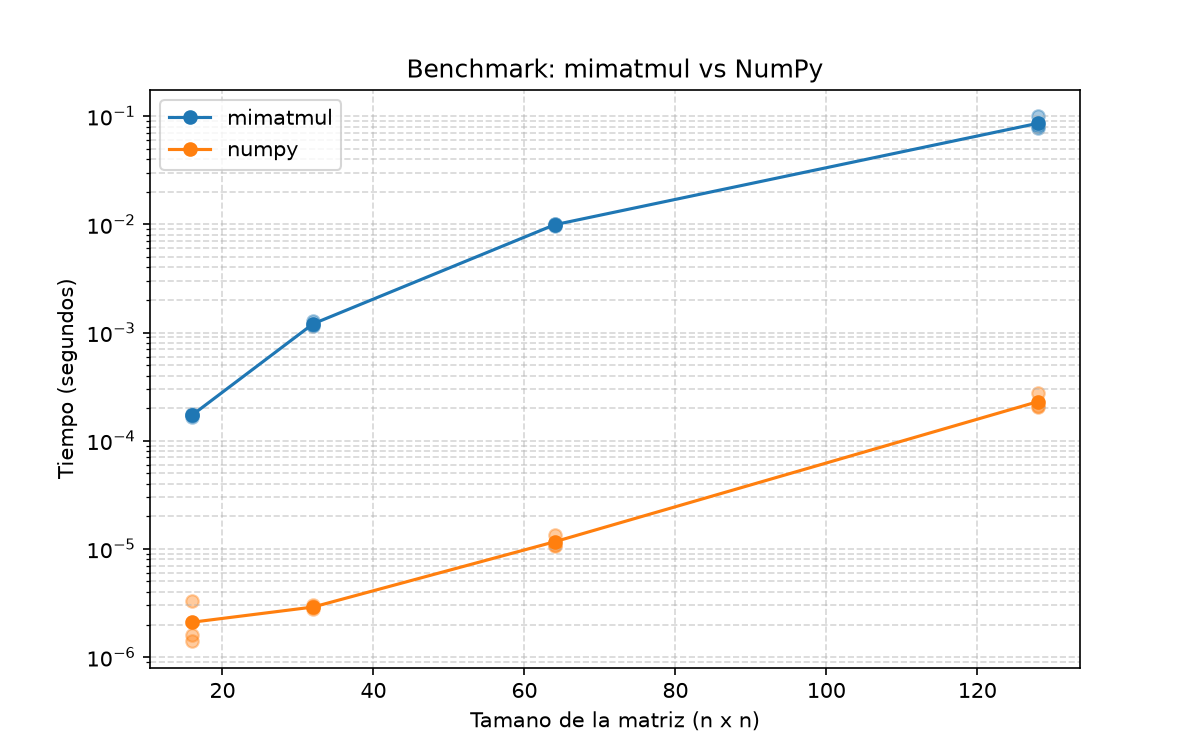
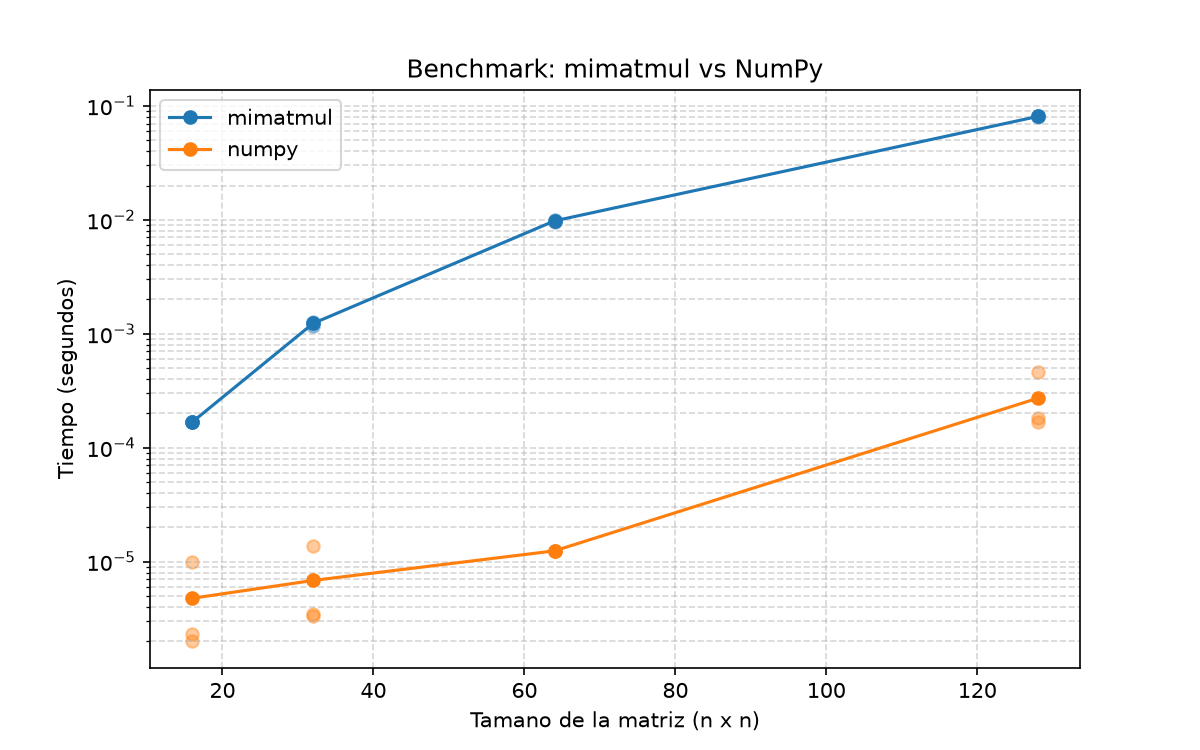
Refuerza validaciones y actualiza resultados finales

Changed region(s): [[0.0617, 0.1227, 0.8942, 0.8893], [0.0617, 0.1227, 0.1233, 0.184]]

diff --git a/src/benchmark.py b/src/benchmark.py
@@ -64,13 +64,13 @@ def graficar(resultados):
 
     plt.figure(figsize=(8, 5))
     for nombre, _ in METODOS:
-        tamaños = []
+        tamanos = []
         tiempos_medios = []
         for n in TAMANOS:
             valores = medias[(nombre, n)]
-            tamaños.append(n)
+            tamanos.append(n)
             tiempos_medios.append(sum(valores) / len(valores))
-        plt.plot(tamaños, tiempos_medios, marker="o", label=nombre)
+        plt.plot(tamanos, tiempos_medios, marker="o", label=nombre)
         repeticiones = [(n, t) for m, n, _, t in resultados if m == nombre]
         plt.scatter(
             [n for n, _ in repeticiones],

diff --git a/tests/test_mimatmul.py b/tests/test_mimatmul.py
@@ -31,6 +31,20 @@ def test_dimensiones_incompatibles():
         mimatmul(A, B)
 
 
+def test_matrices_vacias():
+    with pytest.raises(ValueError):
+        mimatmul([], [[1]])
+    with pytest.raises(ValueError):
+        mimatmul([[1]], [])
+    with pytest.raises(ValueError):
+        mimatmul([[]], [[]])
+
+
+def test_filas_irregulares():
+    with pytest.raises(ValueError):
+        mimatmul([[1, 2], [3]], [[1], [2]])
+
+
 def test_consistencia_con_numpy_cuadradas():
     np = pytest.importorskip("numpy")
     rng = np.random.default_rng(7)

diff --git a/src/mimatmul.py b/src/mimatmul.py
@@ -1,11 +1,16 @@
 def mimatmul(A, B):
-    if not A or not B:
+    if not A or not B or not A[0] or not B[0]:
         raise ValueError("Las matrices no pueden estar vacias")
 
     filas_a = len(A)
     columnas_a = len(A[0])
     filas_b = len(B)
     columnas_b = len(B[0])
+
+    if any(len(fila) != columnas_a for fila in A) or any(
+        len(fila) != columnas_b for fila in B
+    ):
+        raise ValueError("Todas las filas de cada matriz deben tener el mismo largo")
 
     if columnas_a != filas_b:
         raise ValueError(

diff --git a/README.md b/README.md
@@ -115,10 +115,10 @@ Mediciones reales realizadas en este computador. Cada tiempo es el promedio de
 
 | Tamaño (n×n) | mimatmul (s) | NumPy `A @ B` (s) | Cuánto más lento |
 |---|---|---|---|
-| 16 | 0.000173 | 0.000002 | ~87× |
-| 32 | 0.001203 | 0.000003 | ~400× |
-| 64 | 0.009911 | 0.000012 | ~830× |
-| 128 | 0.085819 | 0.000229 | ~375× |
+| 16 | 0.000168 | 0.000005 | ~35× |
+| 32 | 0.001232 | 0.000007 | ~180× |
+| 64 | 0.009795 | 0.000012 | ~788× |
+| 128 | 0.080756 | 0.000272 | ~297× |
 
 Los datos completos (método, tamaño, repetición y tiempo medido) están en
 `data/benchmark_results.csv`. El gráfico generado está en
@@ -185,5 +185,5 @@ Los datos completos (método, tamaño, repetición y tiempo medido) están en
 
 - **P0E1 (entregado)**: ambiente configurado, información del computador e
   inicio de `mimatmul`.
-- **P0E2 (final)**: `mimatmul` completa, 6 pruebas que pasan, benchmark con
+- **P0E2 (final)**: `mimatmul` completa, 8 pruebas que pasan, benchmark con
   datos reales en CSV, gráfico final y documentación completa.
